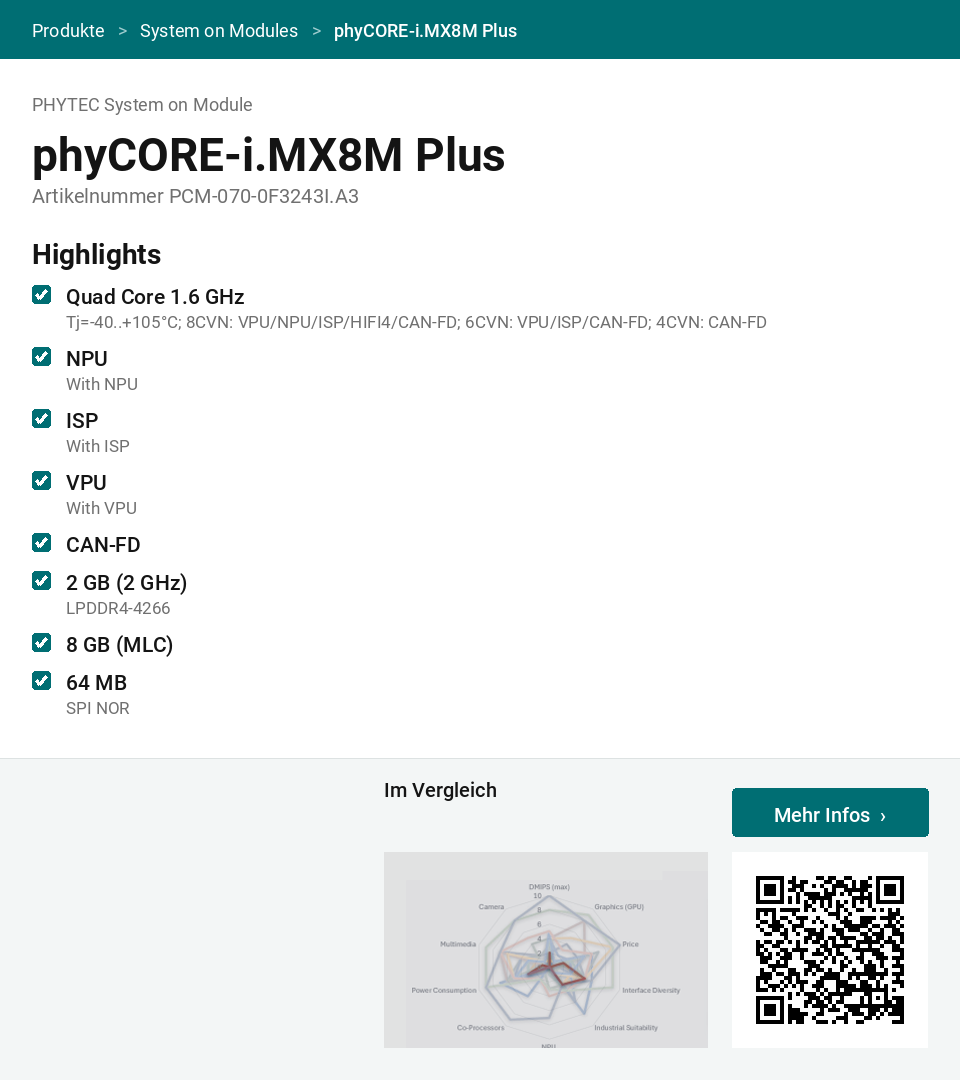
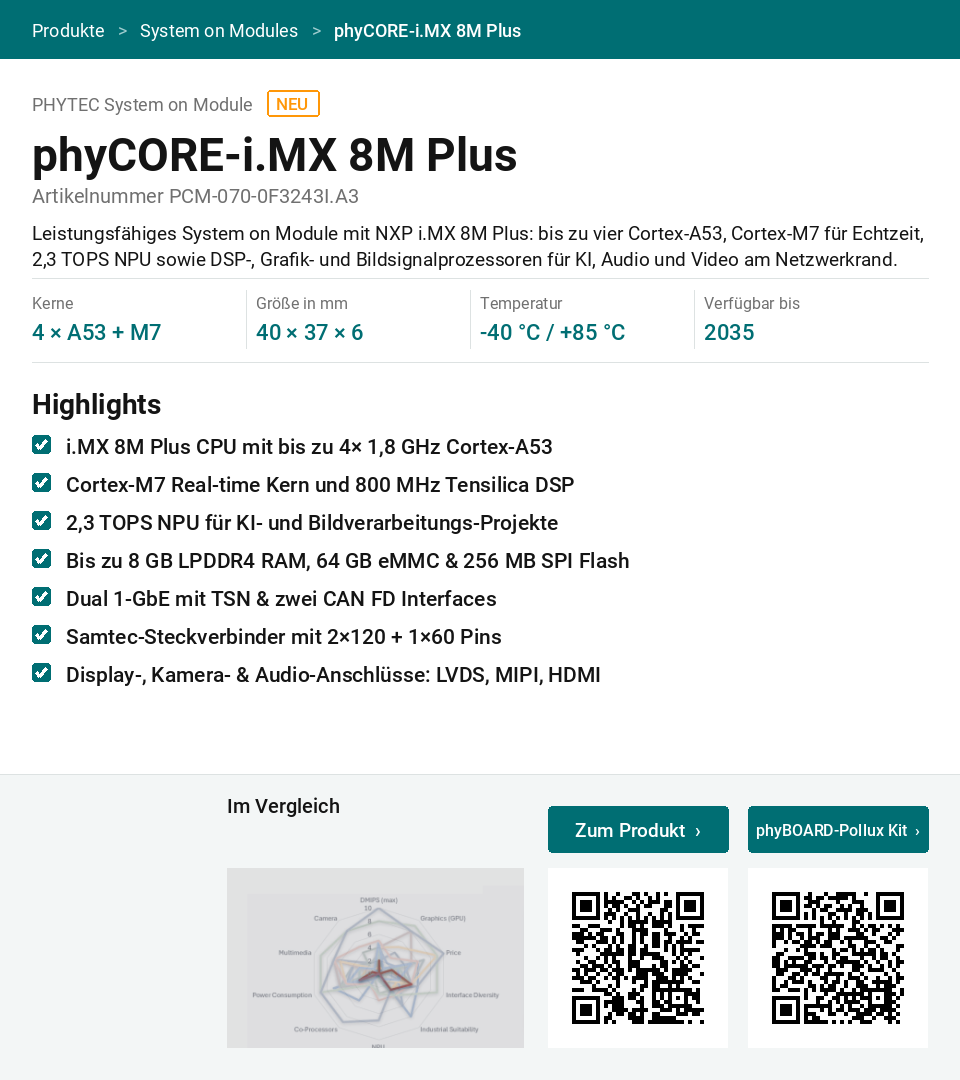
Info panel: short description and two QR codes (product page, kit) from produktinfos.csv

diff --git a/board/phytec_detect/info_panel.py b/board/phytec_detect/info_panel.py
@@ -307,43 +307,51 @@ def _family(name):
     return "System on Modules" if n.startswith(("phycore", "phyflex")) else "Produkte"
 
 
+def _qr(link, size):
+    try:
+        code = cv2.QRCodeEncoder.create().encode(link)
+    except cv2.error:
+        return None
+    n = code.shape[0]
+    cell = max(1, size // (n + 8))
+    qr = cv2.resize(code, (n * cell, n * cell), interpolation=cv2.INTER_NEAREST)
+    return cv2.copyMakeBorder(qr, 4 * cell, 4 * cell, 4 * cell, 4 * cell,
+                              cv2.BORDER_CONSTANT, value=255)
+
+
 def _bottom_band(page, info, margin=32):
-    """Grey band at the bottom: chart and QR code ('Mehr Infos' button
-    above it). Returns the band's top edge."""
-    link, chart_path = info.get("link"), info.get("chart")
-    if not link and not chart_path:
+    """Grey band at the bottom: chart, then one QR code per link (product
+    page, development kit), each under a petrol label like phytec.de's
+    buttons. Returns the band's top edge."""
+    links = info.get("links") or ([["Mehr Infos", info["link"]]] if info.get("link") else [])
+    chart_path = info.get("chart")
+    if not links and not chart_path:
         return page.h
-    q = 0
-    qr = None
-    if link:
-        try:
-            code = cv2.QRCodeEncoder.create().encode(link)
-            n = code.shape[0]
-            cell = max(1, 236 // (n + 8))
-            qr = cv2.resize(code, (n * cell, n * cell), interpolation=cv2.INTER_NEAREST)
-            qr = cv2.copyMakeBorder(qr, 4 * cell, 4 * cell, 4 * cell, 4 * cell,
-                                    cv2.BORDER_CONSTANT, value=255)
-            q = qr.shape[0]
-        except cv2.error:
-            qr = None
-    block = q or 236
-    top = page.h - margin - block - 70  # room for the button above
+    size = 236 if len(links) <= 1 else 200
+    codes = [(label, _qr(url, size)) for label, url in links]
+    codes = [(label, q) for label, q in codes if q is not None]
+    block = max([q.shape[0] for _, q in codes], default=236)
+    top = page.h - margin - block - 70  # room for the labels above
     page.rect((0, top - 24, page.w, page.h), fill=BAND)
     page.draw.line([(0, top - 24), (page.w, top - 24)], fill=RULE, width=1)
     y_img = page.h - margin - block
-    if qr is not None:
-        x0 = page.w - margin - q
-        page.pastes.append((qr, x0, y_img))
-        # petrol button like "Anfragen" on phytec.de
-        bw, bh = q, 48
-        page.rect((x0, y_img - bh - 16, x0 + bw, y_img - 16), fill=PETROL, radius=4)
-        label = "Mehr Infos  \u203a"
-        page.text(x0 + (bw - page.width(label, 20, "Medium")) / 2, y_img - bh - 3, label, 20,
-                  "Medium", fill=(255, 255, 255))
+    x = page.w - margin
+    for label, q in reversed(codes):  # right to left
+        x -= q.shape[0]
+        page.pastes.append((q, x, page.h - margin - q.shape[0]))
+        bw, bh = q.shape[0], 46
+        page.rect((x, y_img - bh - 16, x + bw, y_img - 16), fill=PETROL, radius=4)
+        fs = 19
+        while page.width(label + "  \u203a", fs, "Medium") > bw - 16 and fs > 12:
+            fs -= 1
+        text = label + "  \u203a"
+        page.text(x + (bw - page.width(text, fs, "Medium")) / 2, y_img - bh - 16 + (bh - fs) / 2 - 2,
+                  text, fs, "Medium", fill=(255, 255, 255))
+        x -= 20
     if chart_path:
         chart = cv2.imread(chart_path, cv2.IMREAD_UNCHANGED)
         if chart is not None:
-            right = page.w - margin - (q + 24 if q else 0)
+            right = x + 20 - 24 if codes else page.w - margin
             scale = min(block / chart.shape[0], (right - margin) / chart.shape[1])
             chart = cv2.resize(chart, None, fx=scale, fy=scale,
                                interpolation=cv2.INTER_AREA if scale < 1 else cv2.INTER_CUBIC)
@@ -372,7 +380,11 @@ def _render_single(page, art, info):
         page.text(x, y, line, 46, "Bold")
         y += 58
     page.text(x, y + 2, f"Artikelnummer {art}", 20, fill=MUTED)
-    y += 46
+    y += 40
+    for line in page.wrap(info.get("description", ""), w - 2 * x, 19)[:3]:
+        page.text(x, y, line, 19, fill=INK)
+        y += 26
+    y += 6
     facts = info.get("facts") or []
     if facts:  # key figures row, as under the title on phytec.de
         cw = (w - 2 * x) / len(facts)

diff --git a/tools/product_info.py b/tools/product_info.py
@@ -12,8 +12,9 @@ Per class (article number, the model's label):
            (the panel shows it next to the QR code)
 
 produktinfos.csv (one row per product, filled in by hand) comes first:
-its highlights, key figures (cores, size, temperature, available until),
-category, "new" flag, link and chart file override the per-folder files.
+its short description, highlights, key figures (cores, size, temperature,
+available until), category, "new" flag, product page and kit links (QR
+codes) and chart file override the per-folder files.
 
     uv run tools/product_info.py models/products_v1_n
 """
@@ -86,9 +87,18 @@ def build(products_dir, labels, model_dir=None):
                      if l.strip()), "") if link_file.exists() else ""
         out[art] = {"name": names.get(art) or art, "summary": summary, "options": options}
         row = sheet.get(art, {})
-        link = row.get("Link Mehr Infos") or link
-        if link:
-            out[art]["link"] = link
+        # QR codes: product page and development kit (old sheets: "Link Mehr Infos")
+        links = []
+        if row.get("Link Produktseite"):
+            links.append(["Zum Produkt", row["Link Produktseite"]])
+        kit = row.get("Link Kit") or row.get("Link Mehr Infos") or link
+        if kit:
+            links.append([row.get("Kit-Bezeichnung") or "Zum Kit", kit])
+        if links:
+            out[art]["links"] = links
+            out[art]["link"] = links[-1][1]
+        if row.get("Kurzbeschreibung"):
+            out[art]["description"] = row["Kurzbeschreibung"]
         if row.get("Bezeichnung"):
             out[art]["name"] = row["Bezeichnung"]
         highlights = [row[k] for k in sorted(row) if k.startswith("Highlight") and row[k]]

diff --git a/dataset/products/PRODUKTINFOS.md b/dataset/products/PRODUKTINFOS.md
@@ -10,10 +10,13 @@ bleiben einfach leer.
 | Bezeichnung | Titel im Info-Panel | phyCORE-i.MX8M Plus |
 | Kategorie | graue Zeile über dem Titel, Brotkrumen | System on Module |
 | Neu (ja/nein) | orangefarbenes „NEU“ | ja |
+| Kurzbeschreibung | 1–2 Sätze unter der Artikelnummer (max. 3 Zeilen, ≈ 270 Zeichen) | Leistungsfähiges System on Module mit NXP i.MX 8M Plus … |
 | Kerne / Größe in mm / Temperatur / Verfügbar bis | Kennzahlen-Zeile unter dem Titel | 4 × A53 + M7 / 40 × 37 × 6 / -40 °C / +85 °C / 2035 |
 | Highlight 1–8 | Liste mit Häkchen, je eine kurze Zeile (≤ 55 Zeichen) | NPU mit 2,3 TOPS für KI-Anwendungen |
-| Link Mehr Infos | QR-Code unten rechts | https://www.phytec.de/... |
-| Diagramm-Datei | Bild im Produktordner, links neben dem QR-Code | chart.png |
+| Link Produktseite | QR-Code „Zum Produkt ›“ | https://www.phytec.de/produkte/system-on-modules/phycore-imx-8m-plus-plugged/ |
+| Link Kit | QR-Code ganz rechts (Entwicklungskit) | https://www.phytec.de/produkte/development-kits/phyboard-pollux-kit/ |
+| Kit-Bezeichnung | Beschriftung über dem Kit-QR-Code (leer: „Zum Kit“) | phyBOARD-Pollux Kit |
+| Diagramm-Datei | Bild im Produktordner, links neben den QR-Codes | chart.png |
 | Aussprache (Sprachsuche) | wie man den Namen spricht (für spätere Sprachsuche) | i m x acht m plus |
 | Bemerkung | nur für euch, wird nicht angezeigt | |
 
